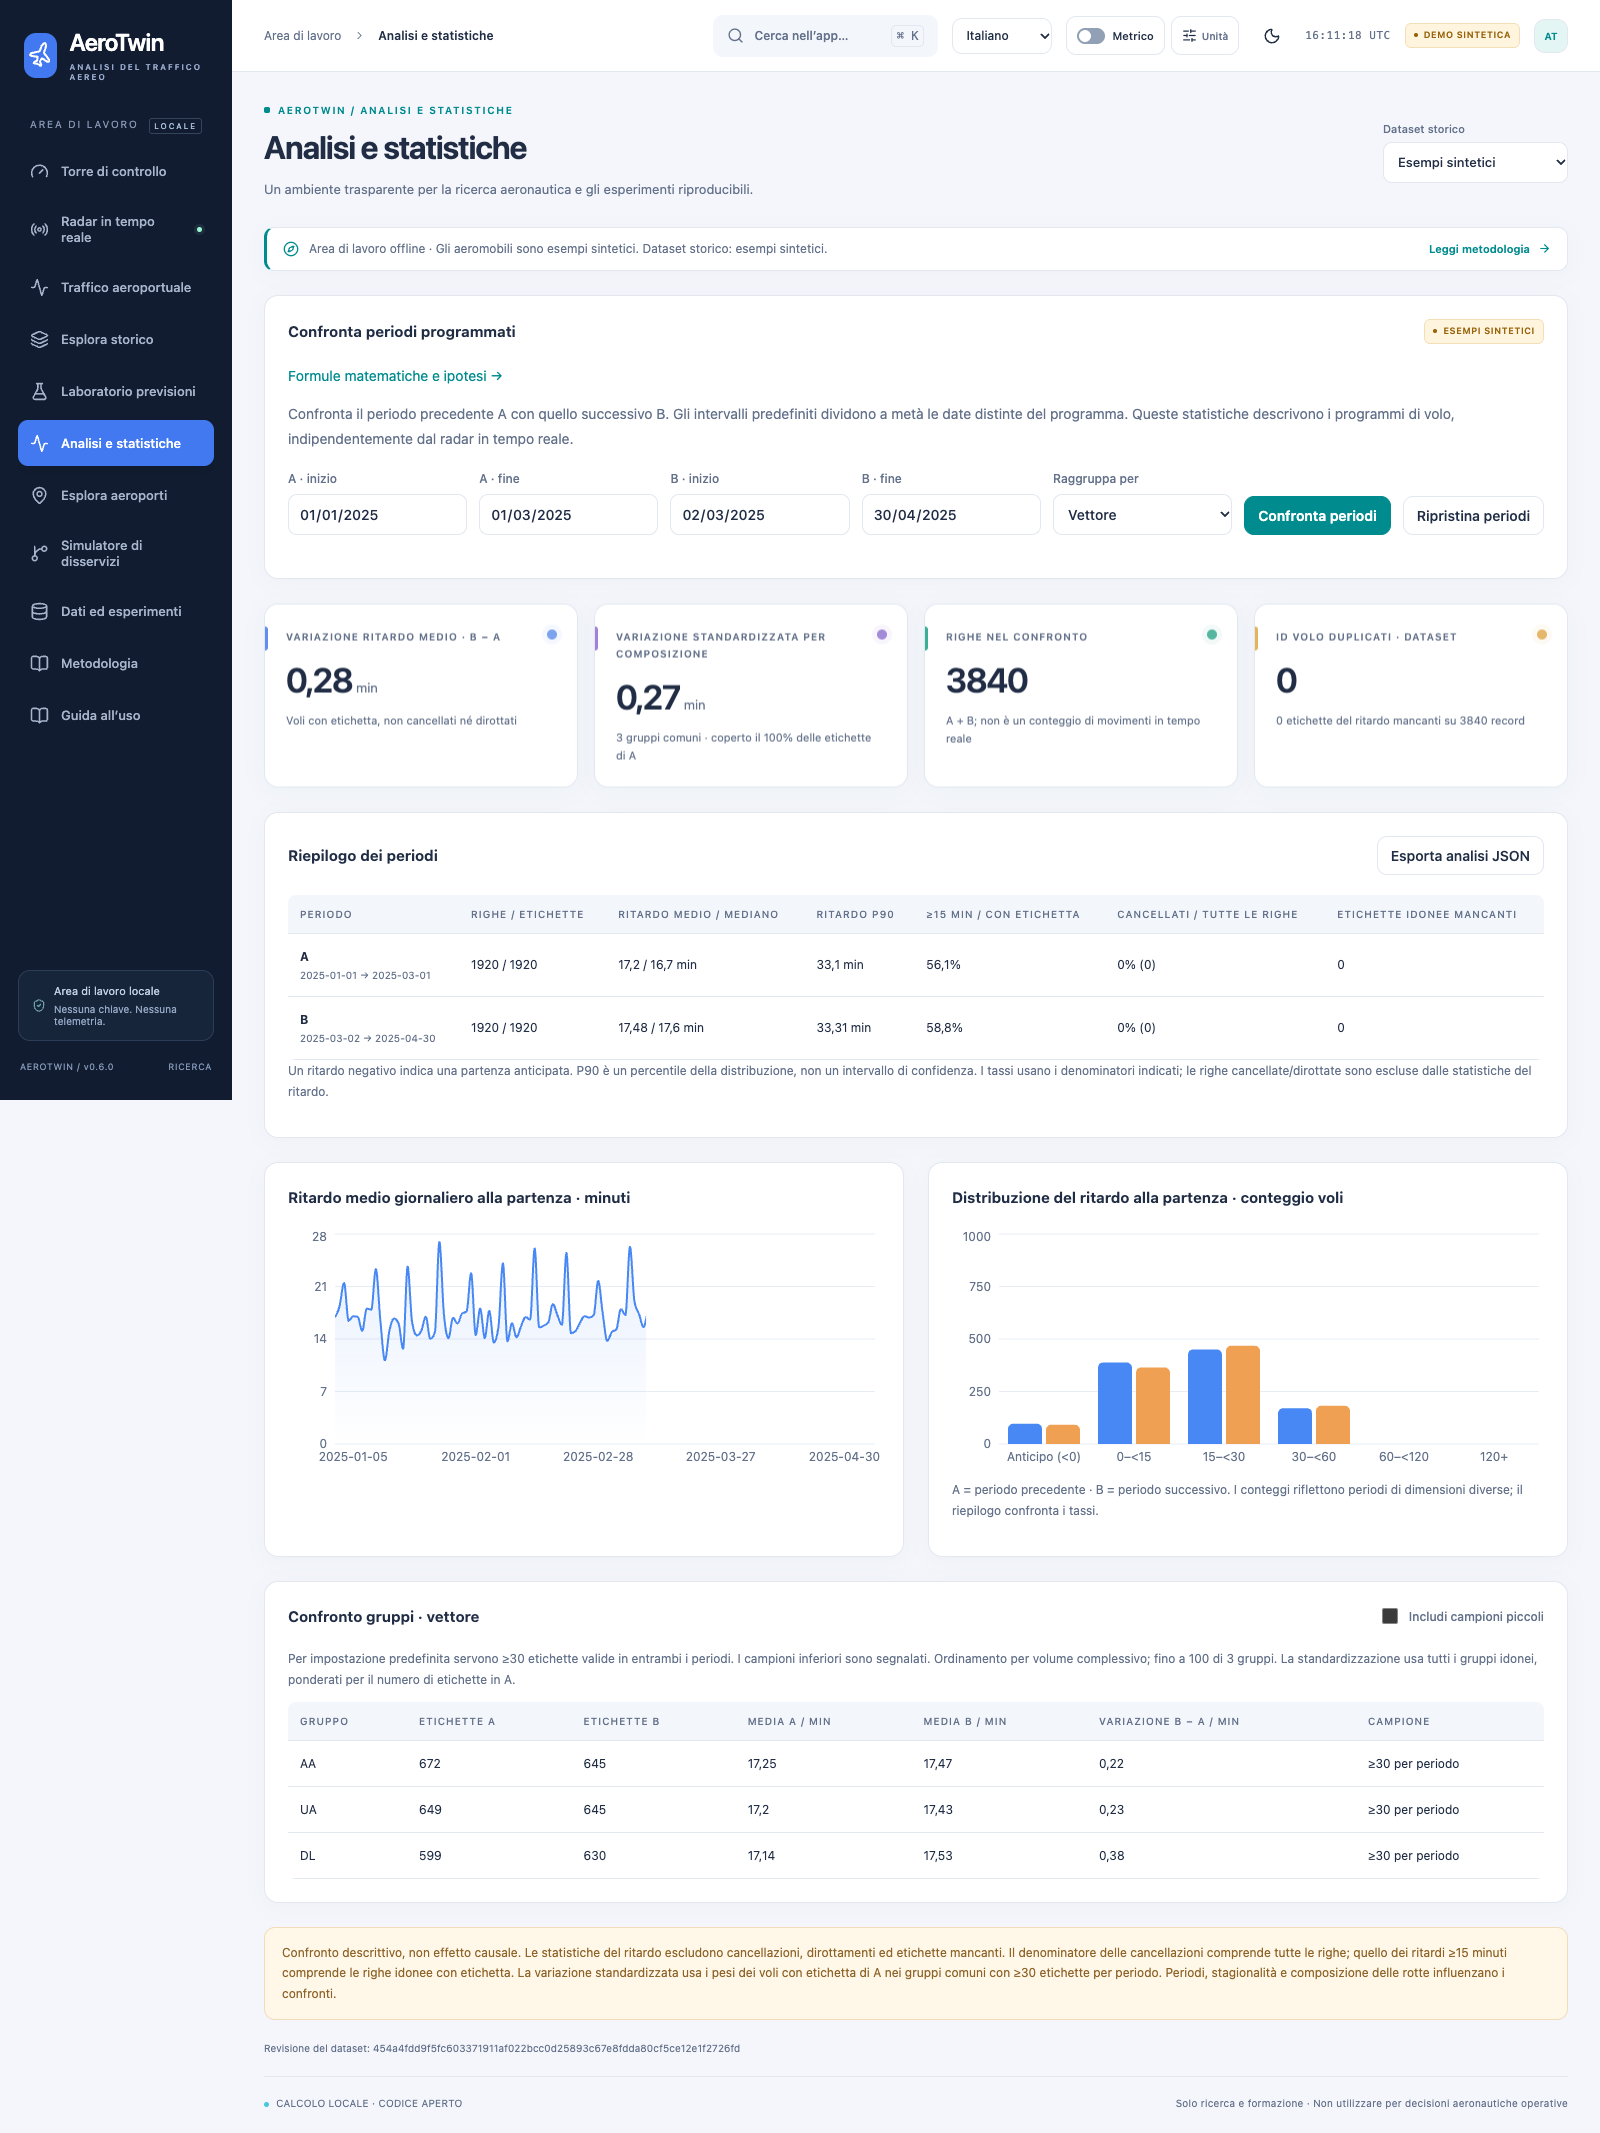
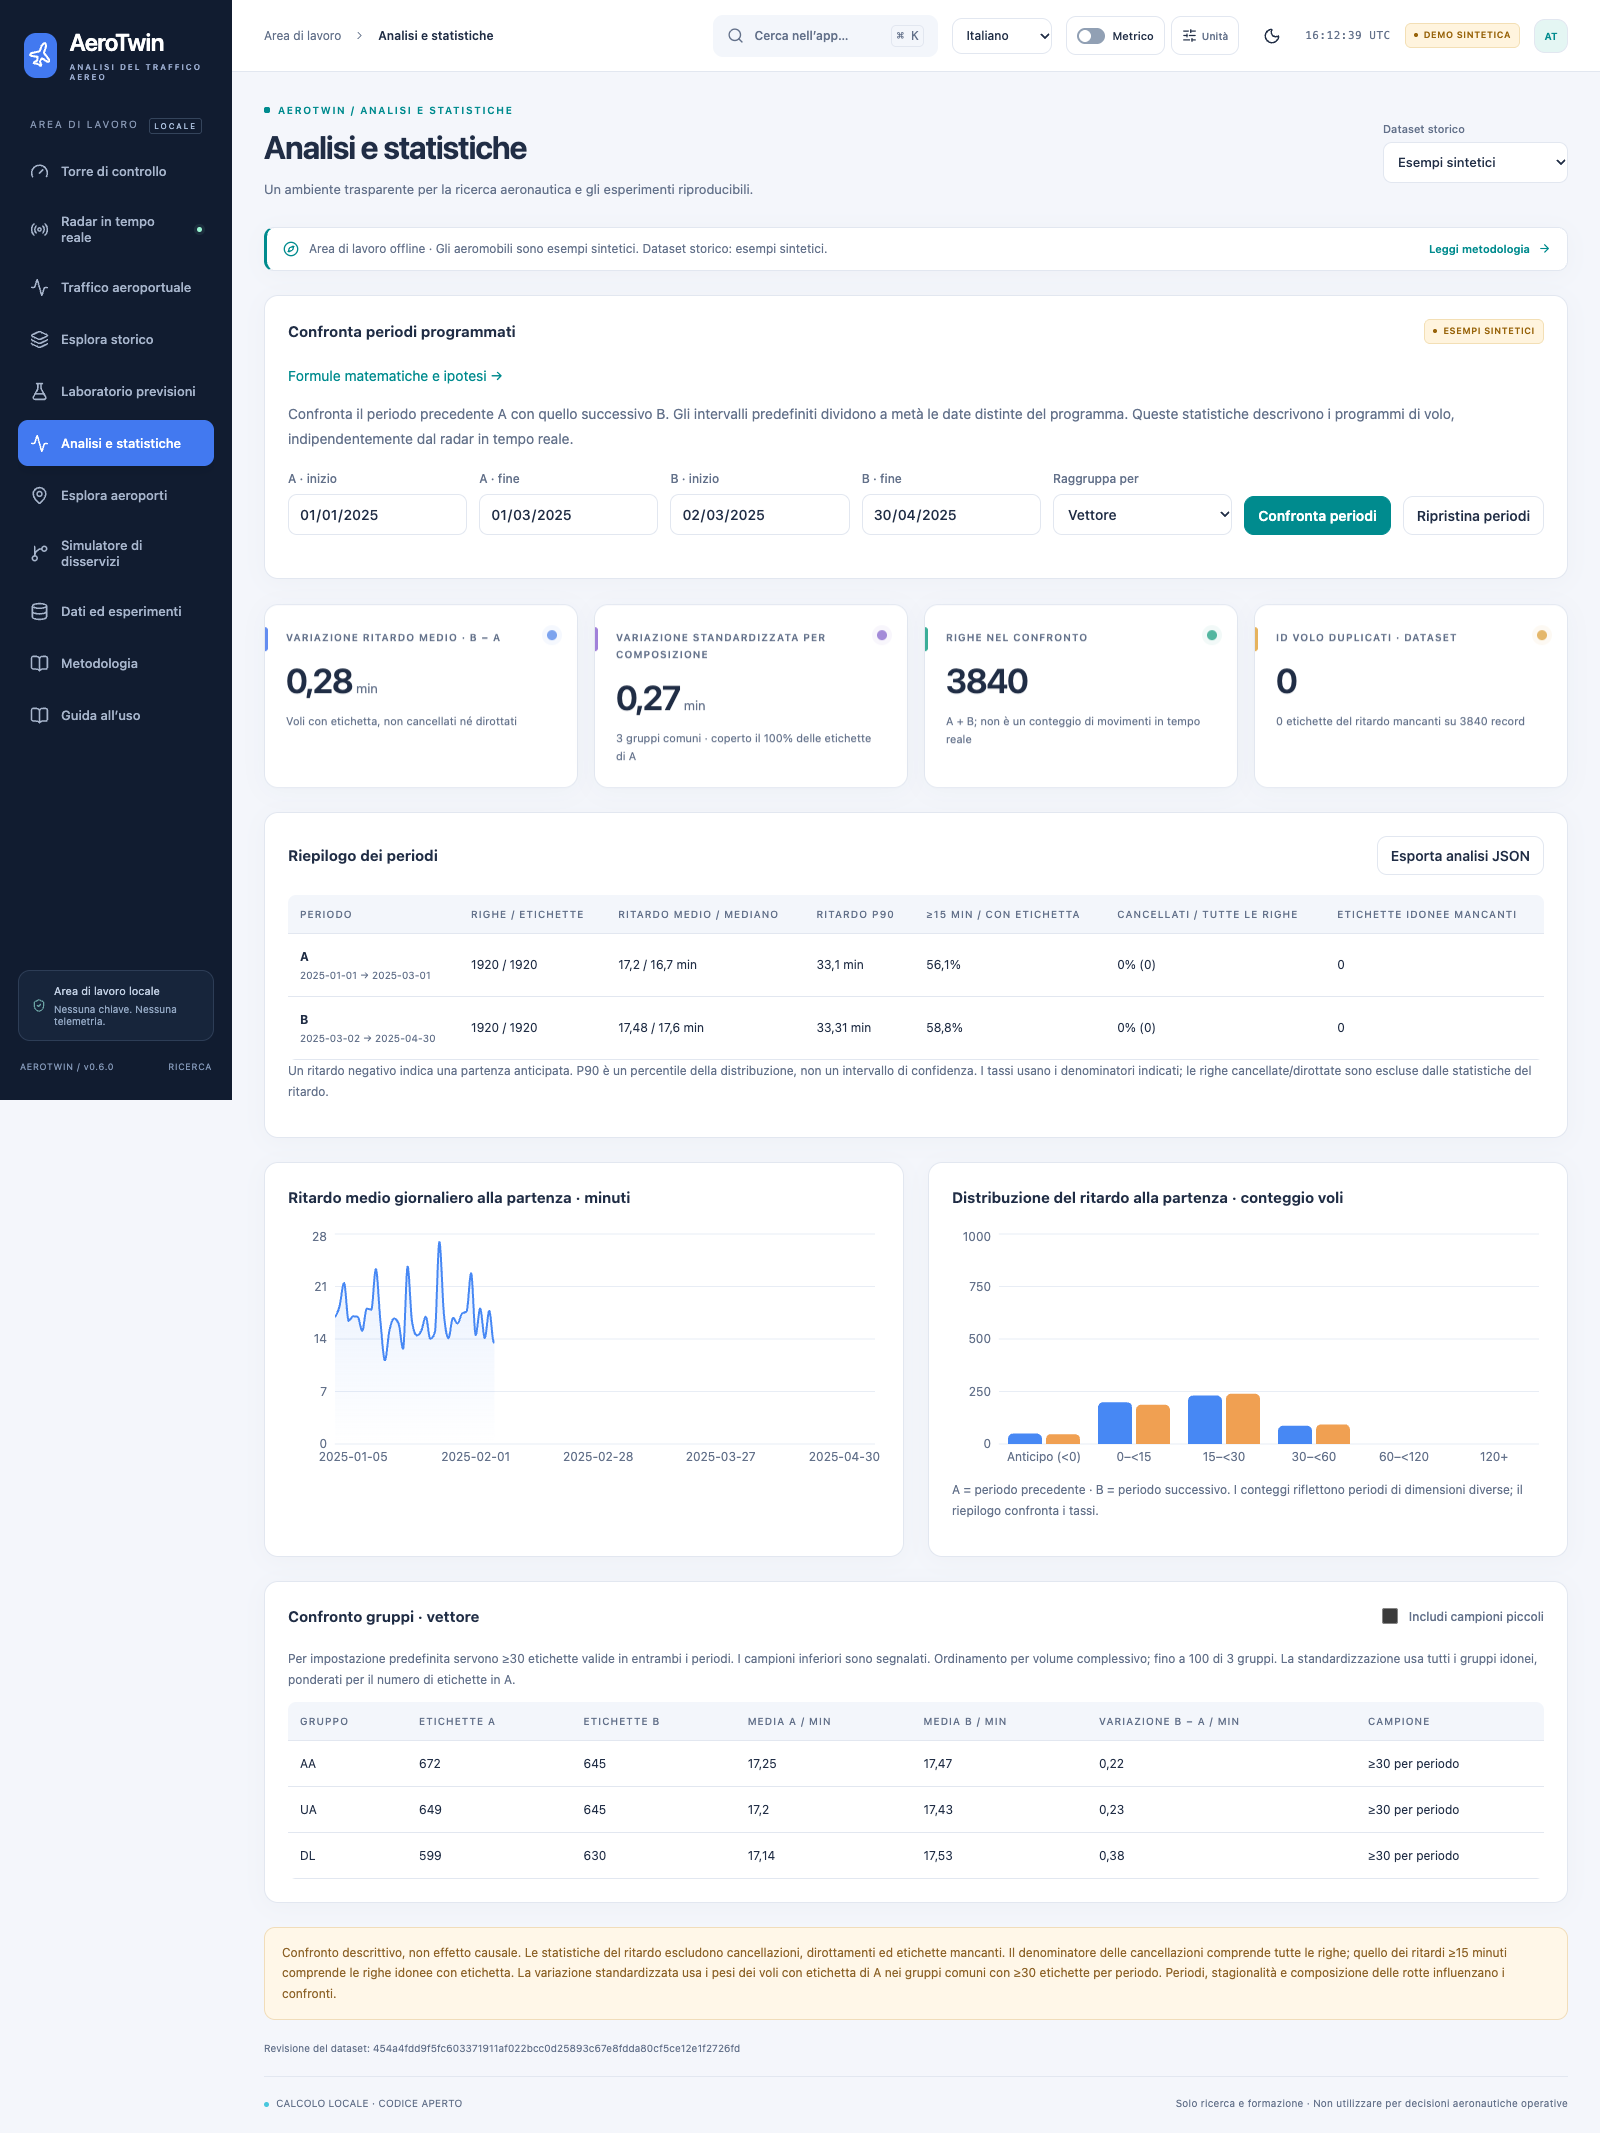
Capture fully rendered Italian pages for release documentation

diff --git a/frontend/tests/e2e/visual-v06.spec.ts b/frontend/tests/e2e/visual-v06.spec.ts
@@ -27,6 +27,10 @@ if (process.env.AEROTWIN_LOCALE_CAPTURE) {
     await expect(
       page.getByText("OSSERVAZIONE AEROMOBILE", { exact: true }),
     ).toBeVisible();
+    await page
+      .getByRole("button", { name: "Usa mappa offline", exact: true })
+      .click();
+    await expect(page.locator(".svg-aircraft")).toHaveCount(42);
     await page.screenshot({
       path: "../docs/screenshots/radar-it-v0.6.png",
       fullPage: true,
